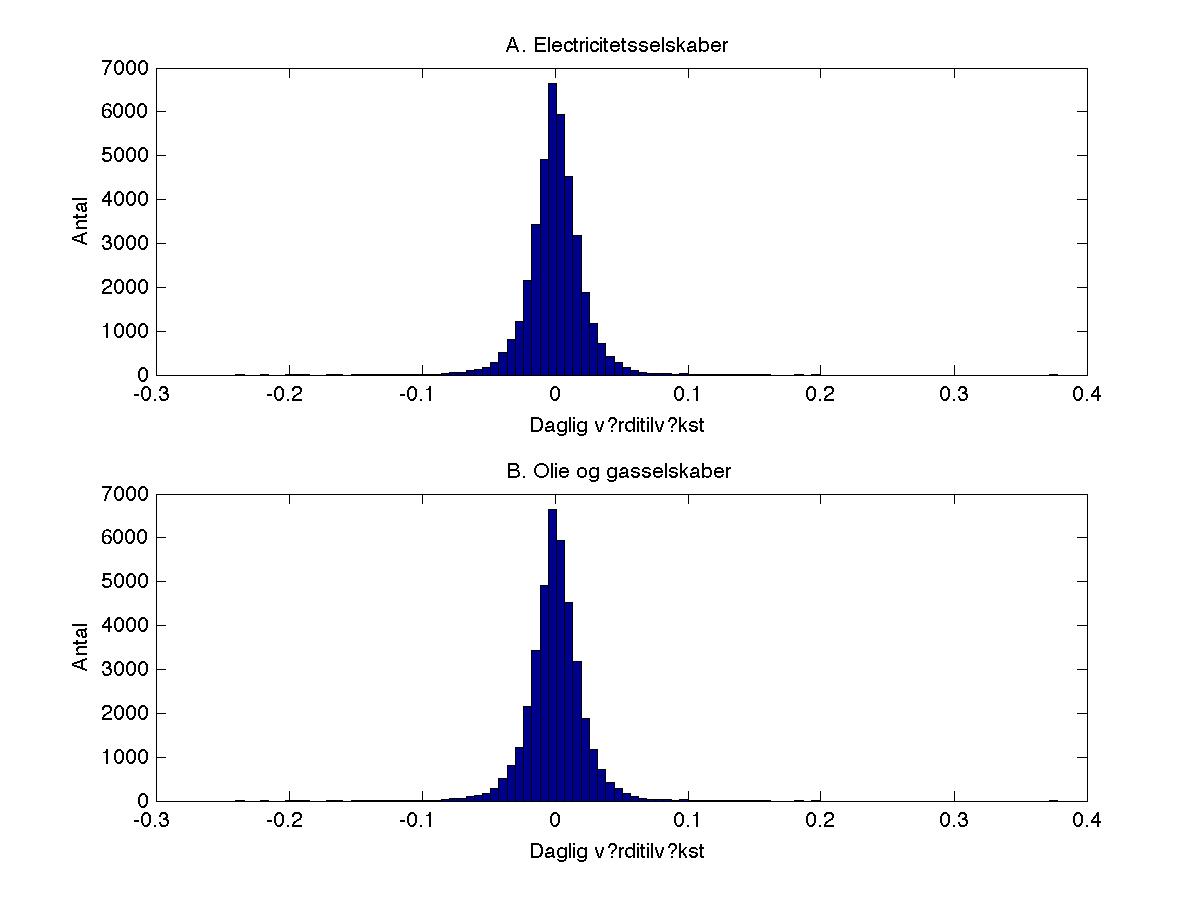
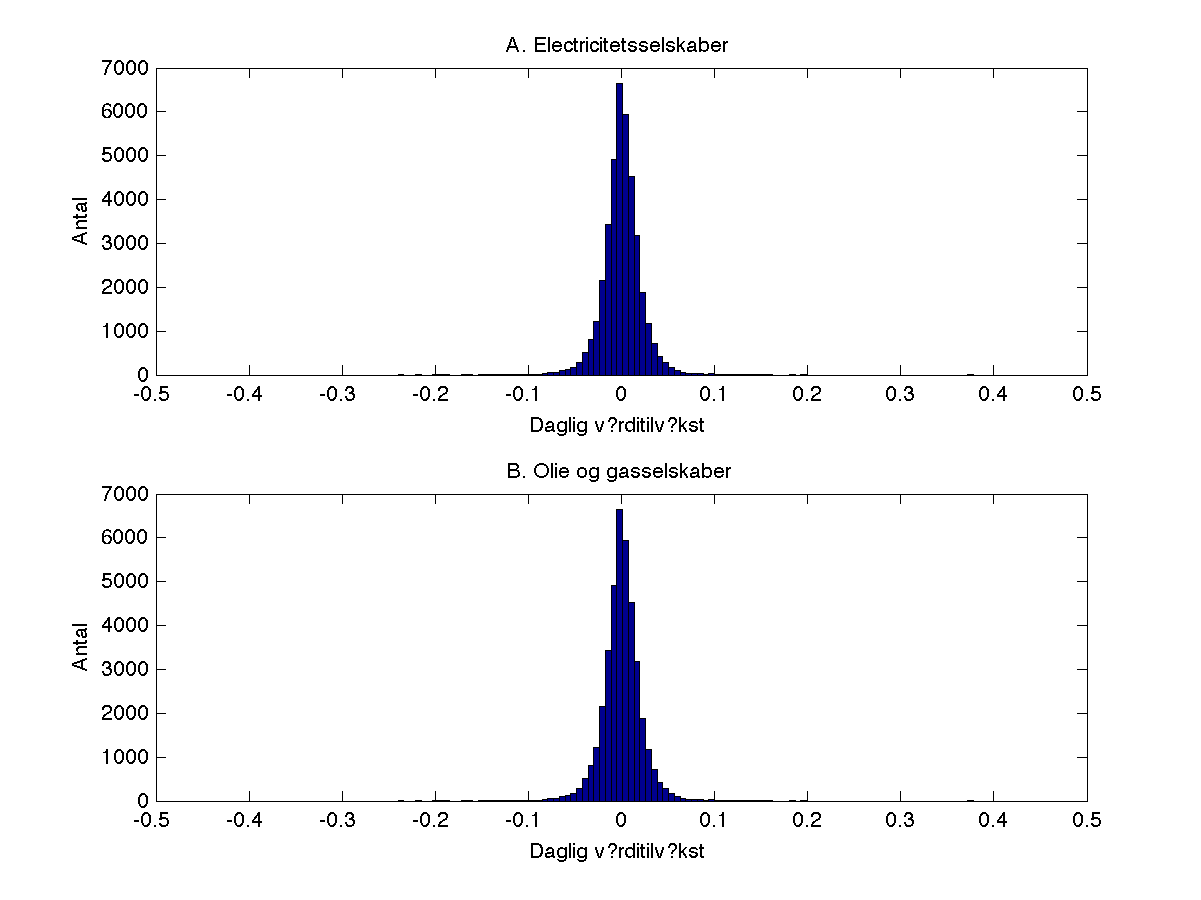
Speed up simulation via vector calculation instead of loop

diff --git a/matlab/main.m b/matlab/main.m
@@ -13,7 +13,7 @@ g=G^(1/4)-1;
 rgov=0.01;
 expinf=0.01;
 inigovshare=0.81;
-sim=1000; %Number of simulations
+sim=10000; %Number of simulations
 simper=252*4; %Number of trading days simulated
 exante=1*265; 
 backwardinf=0.02;
@@ -44,26 +44,8 @@ clear return_elec_sim return_gasoil_sim a rsave r return_elec_pendk return_elec_
 
 for j=1:sim
     
-    for i=(1:1:simper)
-        if i==1
-            %a(i)=1+x_elec(randi(length(x_elec),1));
-            a(i)=1+returns_elec(unidrnd(length(returns_elec)));
-            b(i)=1+x_gasoil(randi(length(x_gasoil),1));
-        else
-            %a(i)=a(i-1)*(1+x_elec(randi(length(x_elec),1)));
-            a(i)=a(i-1)*(1+returns_elec(unidrnd(length(returns_elec))));
-            b(i)=b(i-1)*(1+x_gasoil(randi(length(x_gasoil),1)));
-        end
-        
-        if a(i)<0
-            a(i)=0;
-        end
-        
-        if b(i)<0
-            b(i)=0;
-        end
-        
-    end
+    a=prod(1+returns_elec(unidrnd(length(returns_elec),simper,1)));
+    b=prod(1+returns_gasoil(unidrnd(length(returns_gasoil),simper,1)));
     
     r(1)=a(length(a))^(1/n)-1;
     r(2)=b(length(b))^(1/n)-1;

diff --git a/matlab/stockdata.m b/matlab/stockdata.m
@@ -84,22 +84,9 @@ f_gasoil=0.001:0.001:1;
 
 P1=P;
 
-%Figure
-nj=figure(3)
-subplot(2,1,1);
-hist(P1(~isnan(P1)),100)
-title('A. Electricitetsselskaber')
-ylabel('Antal')
-xlabel('Daglig v?rditilv?kst')
-%set(gca,'xlim',[-0.5 0.5])
-%axis([-0.5 0.5 0 2500])
-subplot(2,1,2);
-hist(P(~isnan(P)),100)
-title('B. Olie og gasselskaber')
-ylabel('Antal')
-xlabel('Daglig v?rditilv?kst')
-%set(gca,'xlim',[-0.5 0.5])
-%axis([-0.5 0.5 0 2500])
-saveas(nj, 'figs/data_hist.png')
+%make alternative empirical dist
+returns_gasoil=P(~isnan(P));
+
+
 
 close all;

diff --git a/matlab/figures.m b/matlab/figures.m
@@ -95,3 +95,21 @@ axis([-100 10 0 2500])
 set(gca, 'Fontsize',14)
 saveas(nj, 'figs/sim_return.pdf')
 
+%% Data figure
+nj=figure(3)
+subplot(2,1,1);
+hist(P1(~isnan(P1)),100)
+title('A. Electricitetsselskaber')
+ylabel('Antal')
+xlabel('Daglig v?rditilv?kst')
+set(gca,'xlim',[-0.5 0.5])
+%axis([-0.5 0.5 0 2500])
+subplot(2,1,2);
+hist(P(~isnan(P)),100)
+title('B. Olie og gasselskaber')
+ylabel('Antal')
+xlabel('Daglig v?rditilv?kst')
+set(gca,'xlim',[-0.5 0.5])
+%axis([-0.5 0.5 0 2500])
+saveas(nj, 'figs/data_hist.png')
+

diff --git a/matlab/old/see_stocks.m b/matlab/old/see_stocks.m
@@ -1,0 +1,11 @@
+clear P temp mod;
+i=1;
+P=10^10*ones(10000,9);
+for str = {'bg','BP', 'eni', 'Shell', 'statoil', 'tentaris','total', 'Transocean'}
+    file=strcat('../data/Euro_gasoil/',str,'.csv');
+    temp=(flipud(csvread(file{1},1+exante,6)));
+    nj(1:length(temp),i)=temp;
+    i=i+1;
+end
+
+plot(nj(:,1))
